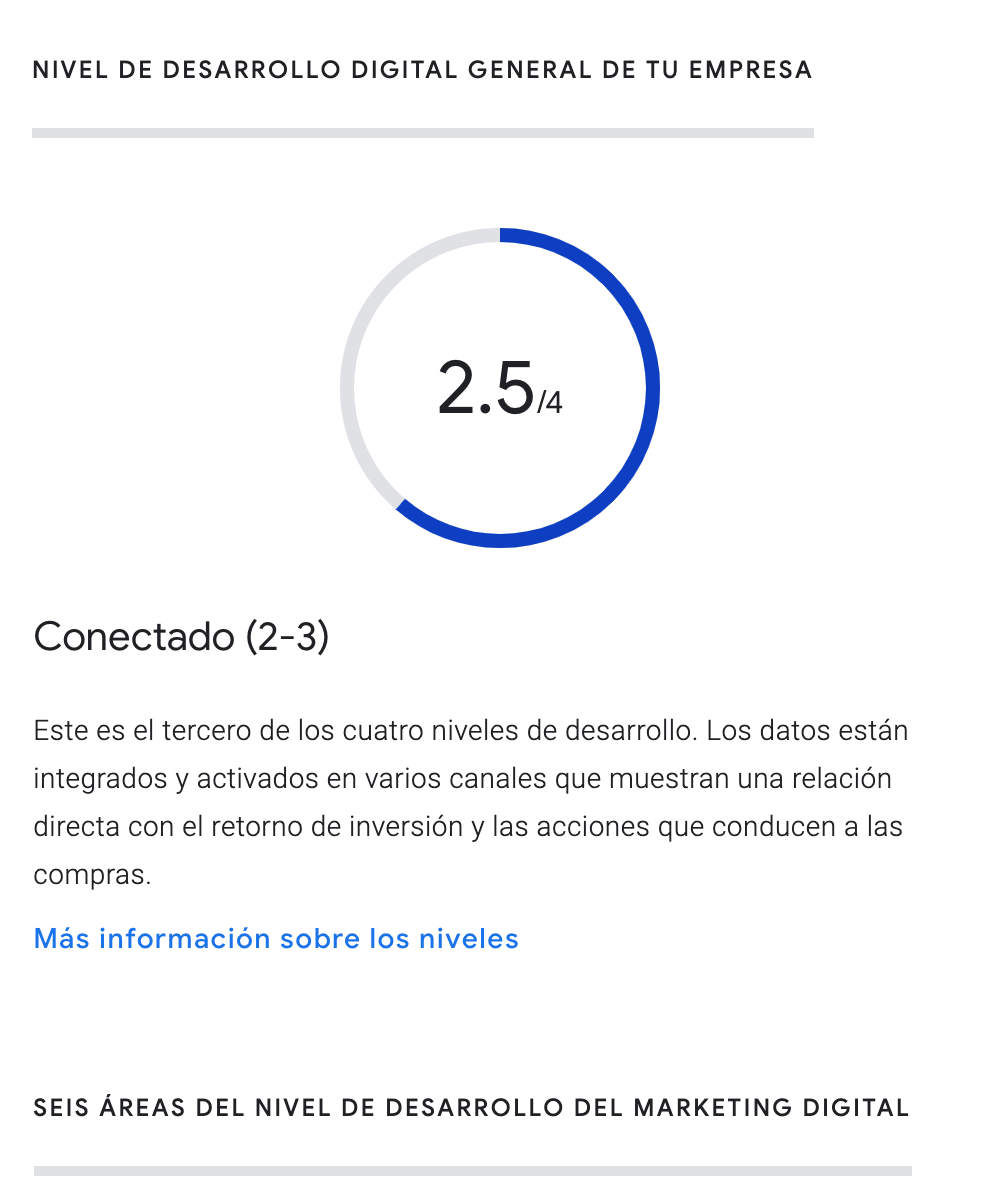
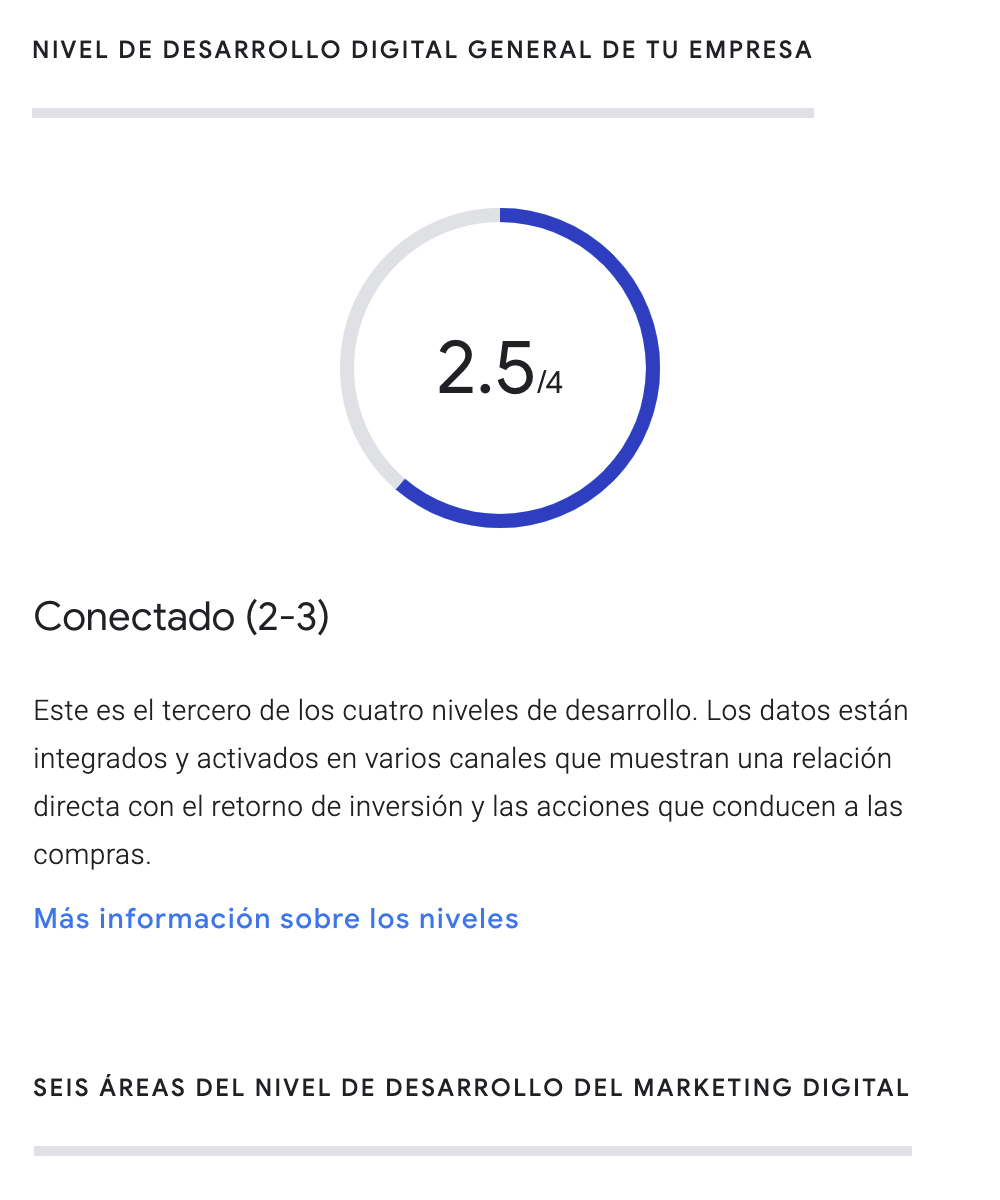
Changed screenshot sizes to match designs

diff --git a/src/core/management/commands/screenshots.py b/src/core/management/commands/screenshots.py
@@ -14,8 +14,8 @@ SCREEN_SIZES = {
         'focused_element': 'dmb-dimension-tabs'
     },
     'tablet': {
-        'size': (768, 1024),
-        'focused_element': 'dmb-report-overall'
+        'size': (556, 796),
+        'focused_element': 'dmb-progress-circle'
     },
     'mobile': {
         'size': (400, 600),
@@ -38,7 +38,7 @@ BASE_PATH = os.path.join(settings.BASE_DIR, "static/src/img/")
 def take_screenshot(driver, focused_element, path):
     driver.execute_script("arguments[0].scrollIntoView();", focused_element)
     # Arbitrary padding
-    driver.execute_script("window.scrollBy(0, -20);")
+    driver.execute_script("window.scrollBy(0, -10);")
     # Hide any debug or unwanted elements
     for selector in HIDDEN_SELECTORS:
         driver.execute_script(
